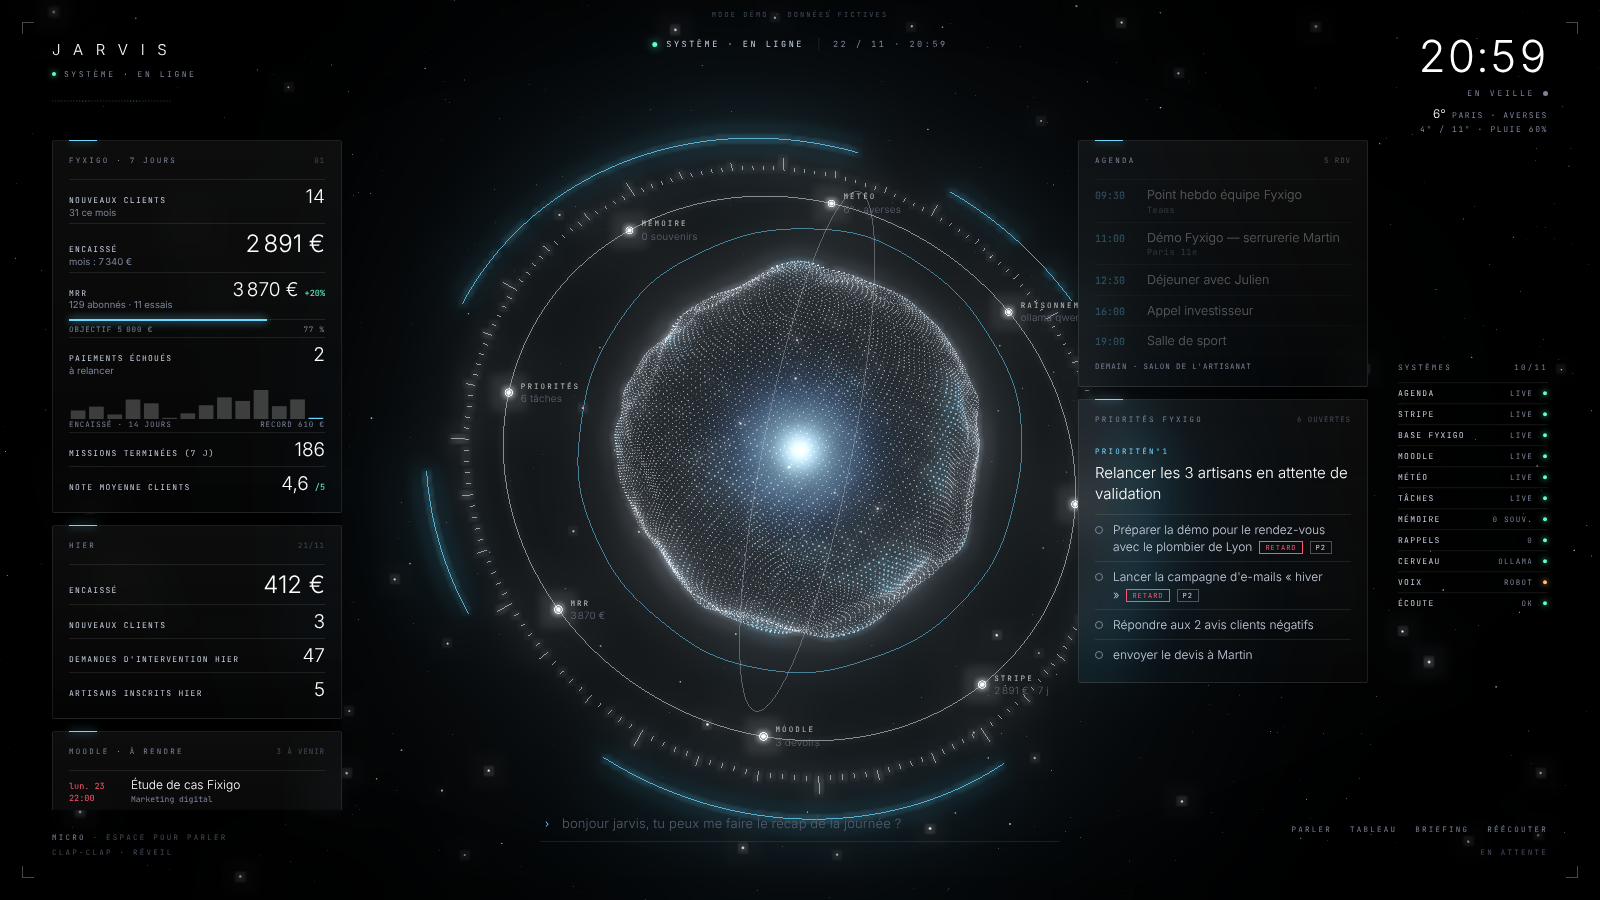
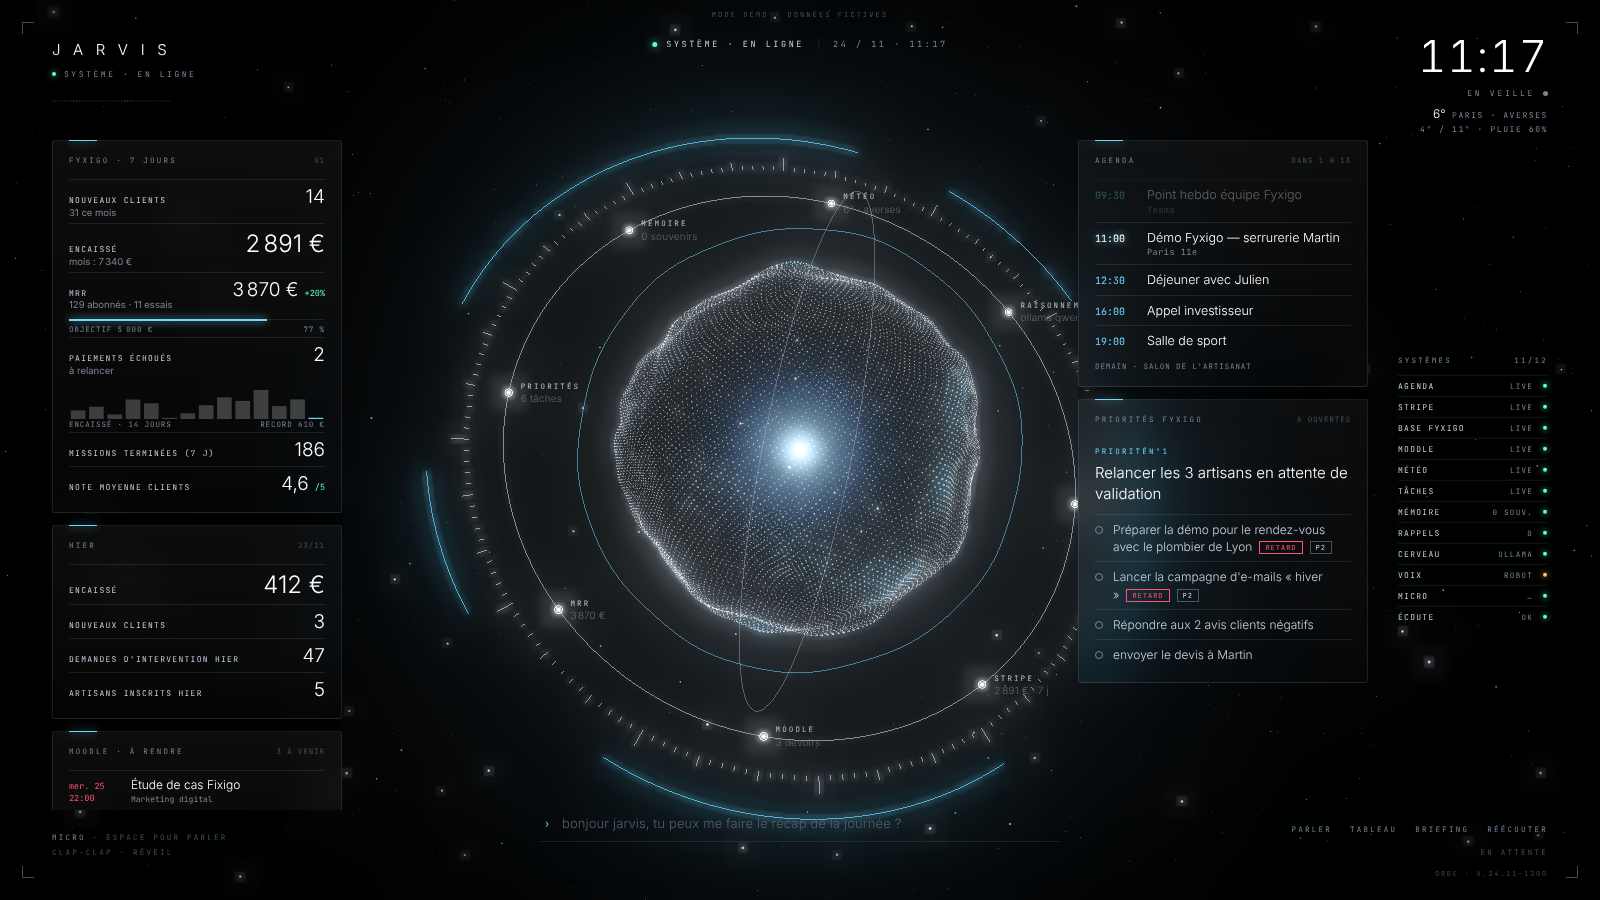
Design noir garanti (page jamais en cache, version affichée, vérification après mise à jour), attente 1,5 s avant de répondre
Claude-Session: https://claude.ai/code/session_01DKoxfKHzRcH3b2eyDqtUH6

diff --git a/jarvis_thibault/static/index.html b/jarvis_thibault/static/index.html
@@ -172,6 +172,7 @@ button.b:hover,button.b.on{color:#fff;border-bottom-color:var(--cyan)}
 </div>
 <div class="toasts" id="toasts"></div>
 <div class="demo" id="demo" hidden>MODE DÉMO · DONNÉES FICTIVES</div>
+<div id="versionJarvis" style="position:fixed;right:52px;bottom:22px;z-index:5;font:400 7px JetBrains Mono,monospace;letter-spacing:.25em;color:#3a4152">ORBE · V.__VERSION_JARVIS__</div>
 <script>
 const $=s=>document.querySelector(s);
 const JOURS=["dimanche","lundi","mardi","mercredi","jeudi","vendredi","samedi"],JC=["dim.","lun.","mar.","mer.","jeu.","ven.","sam."];

diff --git a/jarvis_thibault/serveur.py b/jarvis_thibault/serveur.py
@@ -232,9 +232,21 @@ def creer_app(cfg: Optional[Config] = None, planifier: bool = True) -> FastAPI:
             threading.Thread(target=ecouter, args=(cfg, etat.ev), daemon=True).start()
     threading.Thread(target=etat.rafraichir, daemon=True).start()
 
+    version_lancee = ((cfg.dossier / "app" / "version").read_text().strip()
+                      if (cfg.dossier / "app" / "version").exists() else "dev")
+    SANS_CACHE = {"Cache-Control": "no-store, no-cache, must-revalidate, max-age=0", "Pragma": "no-cache"}
+
+    @app.middleware("http")
+    async def pas_de_cache(request, call_next):
+        rep = await call_next(request)
+        if request.url.path == "/" or request.url.path.startswith("/static/"):
+            rep.headers.update(SANS_CACHE)
+        return rep
+
     @app.get("/", response_class=HTMLResponse)
     def accueil():
-        return (STATIC / "index.html").read_text(encoding="utf-8")
+        page = (STATIC / "index.html").read_text(encoding="utf-8")
+        return HTMLResponse(page.replace("__VERSION_JARVIS__", version_lancee), headers=SANS_CACHE)
 
     @app.get("/api/etat")
     def api_etat(rafraichir: bool = False):
@@ -257,8 +269,6 @@ def creer_app(cfg: Optional[Config] = None, planifier: bool = True) -> FastAPI:
             "demo": cfg.demo,
         }
 
-    version_lancee = ((cfg.dossier / "app" / "version").read_text().strip()
-                      if (cfg.dossier / "app" / "version").exists() else "dev")
 
     @app.get("/api/version")
     def api_version():

diff --git a/jarvis_thibault/ecoute.py b/jarvis_thibault/ecoute.py
@@ -127,7 +127,7 @@ def _rms(b) -> float:
         return math.sqrt(sum((int(v) / 32768) ** 2 for v in b) / len(b))
 
 
-def enregistrer_phrase(attente_max: float = 8.0, silence_fin: float = 1.0, duree_max: float = 15.0,
+def enregistrer_phrase(attente_max: float = 8.0, silence_fin: float = 1.5, duree_max: float = 15.0,
                        sur_niveau: Optional[Callable[[float], None]] = None, journal: Optional[dict] = None,
                        interruption: bool = False, sur_debut: Optional[Callable[[], None]] = None,
                        sensibilite: float = 1.0) -> Optional[bytes]:

diff --git a/jarvis_thibault/app.py b/jarvis_thibault/app.py
@@ -51,7 +51,7 @@ def main() -> int:
     drapeau.unlink(missing_ok=True)
     etat = {"plein": bool(ecran.get("plein_ecran", False)) or reveil}
     fenetre = webview.create_window(
-        "J.A.R.V.I.S.", url + "?app=1",
+        "J.A.R.V.I.S.", url + f"?app=1&v={int(time.time())}",
         width=1600, height=1000, min_size=(900, 620),
         background_color="#01030b", text_select=False,
         fullscreen=etat["plein"],
